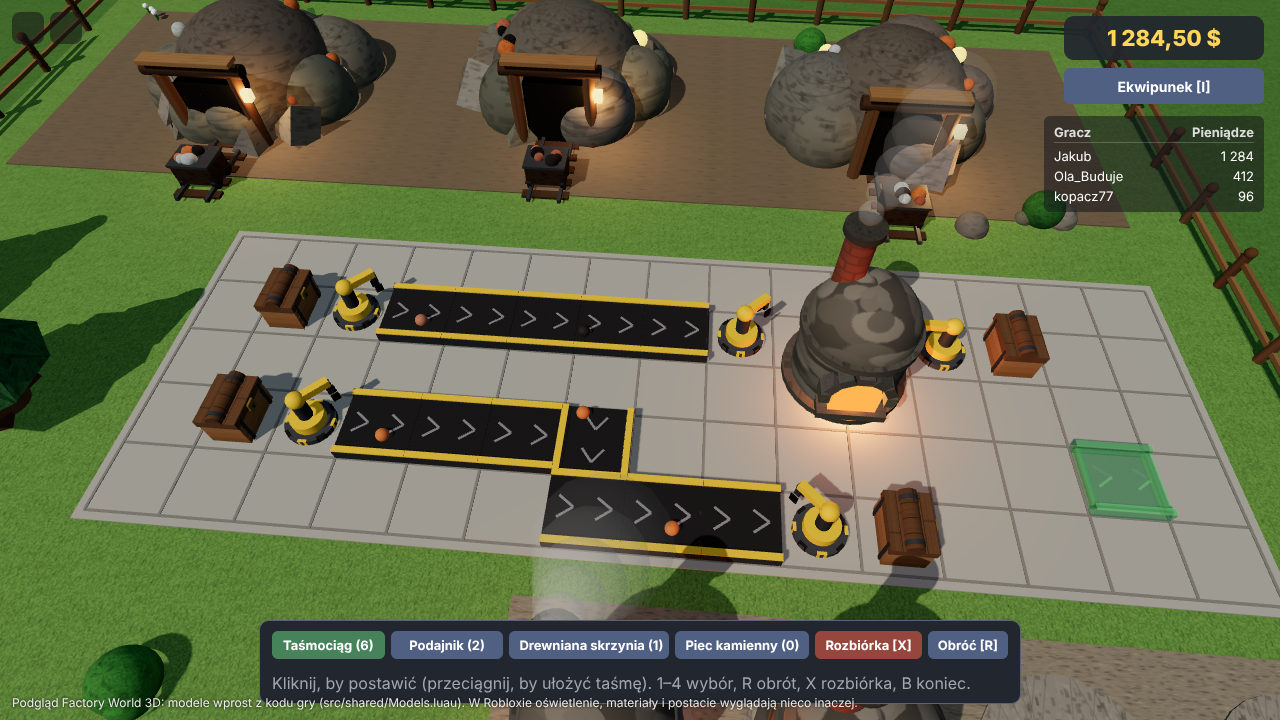
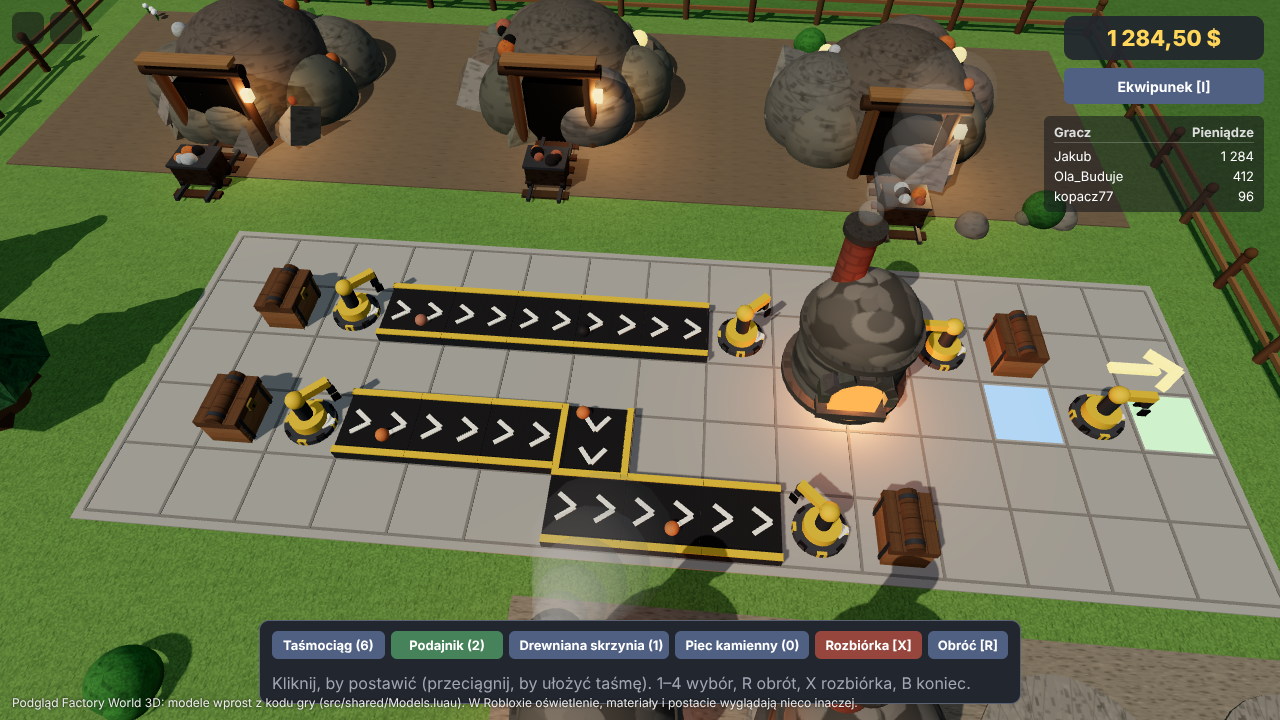
Smooth belts and inserter arms on the client, clearer build direction
The server now only puts what a belt or inserter holds in model attributes
each tick (with which belt items slid in that tick); the client animates items
and arms every frame. Belt and inserter arrows are bright and thicker, and the
build ghost shows a glowing direction arrow and, for an inserter, its pick-up
and drop tiles.

Claude-Session: https://claude.ai/code/session_015q7rLHNJ66CFDjTGWXE1aJ

diff --git a/tools/preview/scene.js b/tools/preview/scene.js
@@ -195,12 +195,13 @@ function views() {
     const [fx, fz] = tileAt(state.furnace.x, state.furnace.z, 2);
     objects.push({ at: [cx + fx, 0, cz + fz], yaw: Math.PI, parts: lua.call("Models.Furnace(true)"), lit: state.lit });
     // The see-through ghost of the next belt under the pointer.
-    const [gx, gz] = tileAt(13, 3, 1);
-    objects.push({ at: [cx + gx, 0, cz + gz], yaw: yaws[1], parts: models.logistics_belt.map((q) => ({ ...q, transparency: 0.55, color: [90, 220, 120] })) });
+    const [gx, gz] = tileAt(13, 2, 1);
+    const ghost = models.logistics_inserter.map((q) => ({ ...q, transparency: 0.3 })).concat(lua.call("Models.BuildMarker(Items.Inserter, PlotLayout.Grid.tile)"));
+    objects.push({ at: [cx + gx, 0, cz + gz], yaw: yaws[1], parts: ghost });
     const btn = (t, on) => `<span class="btn${on ? "" : " alt"}" style="width:140px;text-align:center;white-space:nowrap">${t}</span>`;
     out["6-budowanie"] = { objects, camera: { pos: [cx + 10, 34, cz + 18], look: [cx + 8, 0, cz - 6], fov: 55 }, shadowRadius: 60, hud: "1 284,50 $", caption,
       overlay: `<div class="win" style="left:50%;transform:translateX(-50%);bottom:16px;width:760px"><div class="bd" style="padding-top:10px">
-        <div style="display:flex;gap:6px">${btn("Taśmociąg (6)", true)}${btn("Podajnik (2)")}${btn("Drewniana skrzynia (1)")}${btn("Piec kamienny (0)")}<span class="btn red">Rozbiórka [X]</span><span class="btn alt">Obróć [R]</span></div>
+        <div style="display:flex;gap:6px">${btn("Taśmociąg (6)")}${btn("Podajnik (2)", true)}${btn("Drewniana skrzynia (1)")}${btn("Piec kamienny (0)")}<span class="btn red">Rozbiórka [X]</span><span class="btn alt">Obróć [R]</span></div>
         <div class="muted" style="margin-top:8px">Kliknij, by postawić (przeciągnij, by ułożyć taśmę). 1–4 wybór, R obrót, X rozbiórka, B koniec.</div>
       </div></div>` };
   }
